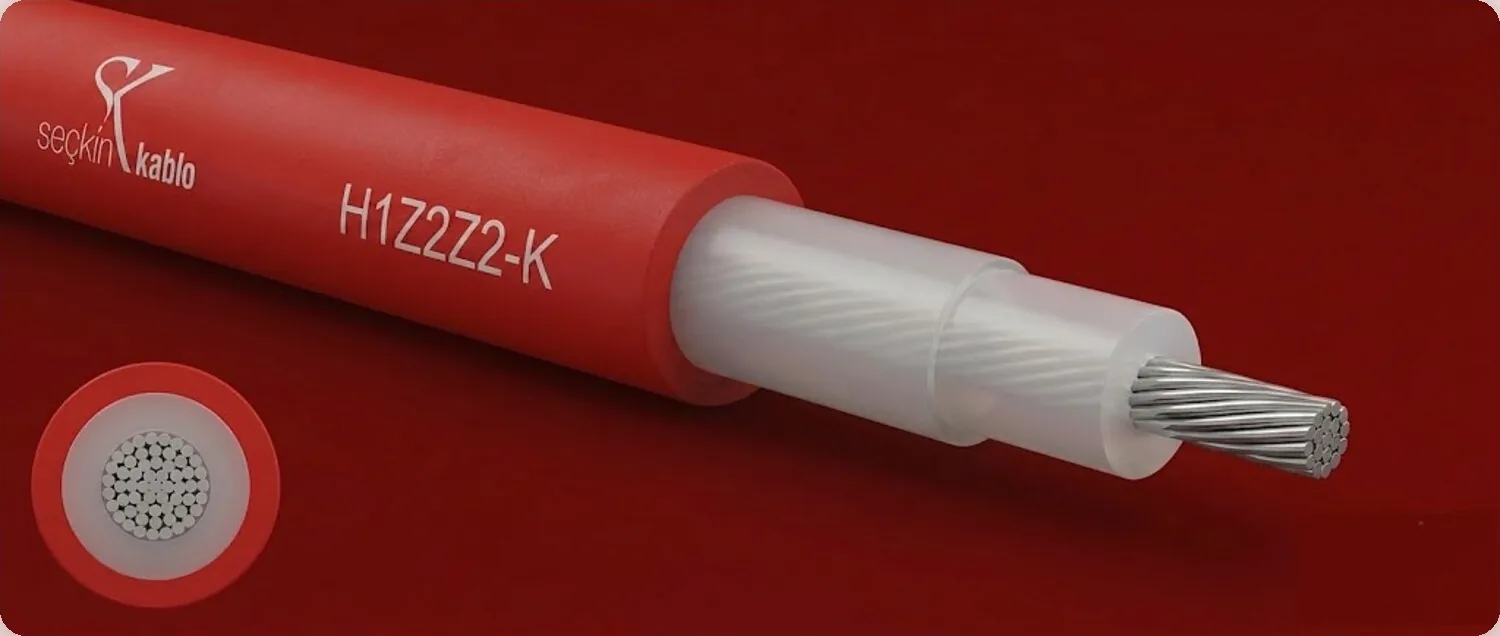
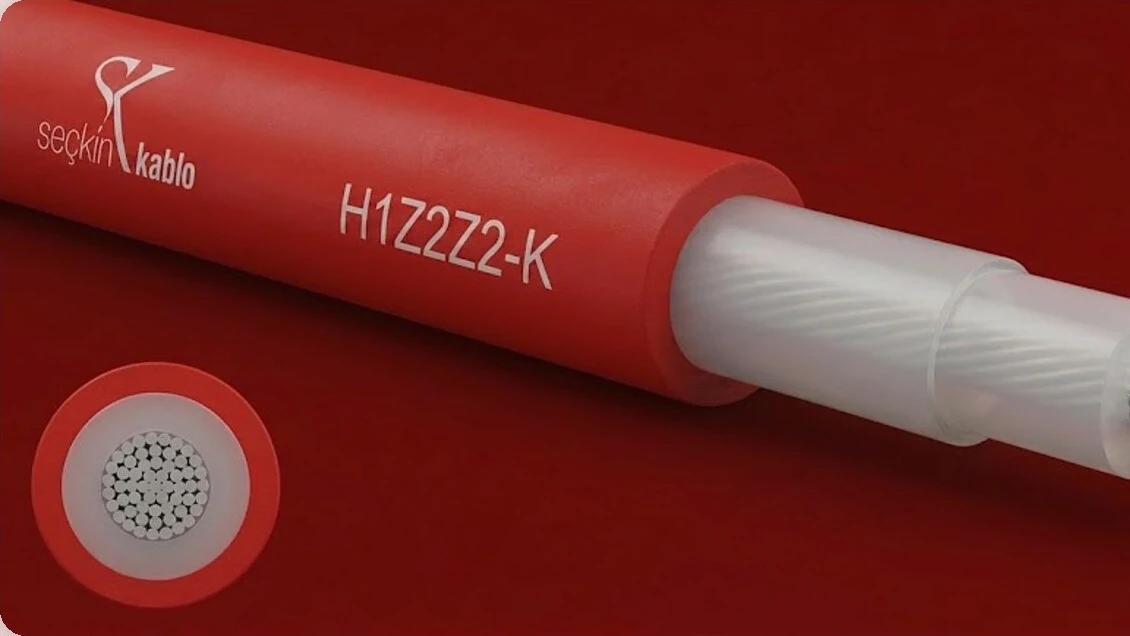
Ürünler kartlarını SVG ikon tutarlılığına döndür + solar fotoğrafı 16:9 crop
- urunler.html: Solar / PUR / Yangına Dayanıklı kartları büyük fotoğraf yerine diğer 7 kart gibi SVG ikon kullanıyor (güneş, robot/kontrol, kalkan+alev)
- css/style.css: kullanılmayan .big-cat .cat-photo varyantı temizlendi
- assets/img/kablolar-katalog/08-solar/01_H1Z2Z2-K.webp: 2.36:1 kaynak 16:9'a kırpıldı (sağdan boş kırmızı alan atıldı, Seçkin Kablo logosu ve kesit dairesi korundu) — kart konteynerinde letterbox olmuyor

diff --git a/urunler.html b/urunler.html
@@ -115,28 +115,28 @@
         </a>
 
         <a href="solar-kablolari.html" class="big-cat reveal">
-          <div class="cat-photo"><img src="assets/img/kablolar-katalog/08-solar/01_H1Z2Z2-K.webp" alt="Solar (H1Z2Z2-K) kablo önizlemesi" width="96" height="136" loading="lazy" decoding="async"></div>
+          <div class="cat-ico"><svg aria-hidden="true" focusable="false" viewBox="0 0 24 24" fill="none" stroke="currentColor" stroke-width="1.8"><circle cx="12" cy="12" r="4"/><path d="M12 2v3M12 19v3M2 12h3M19 12h3M4.9 4.9l2.1 2.1M17 17l2.1 2.1M4.9 19.1L7 17M17 7l2.1-2.1"/></svg></div>
           <div>
-            <h3>Solar Kablolar</h3>
-            <p>Fotovoltaik (PV) sistemler için UV ve ozon dayanımlı, halojensiz DC güç kabloları. Çift yalıtımlı yapı, geniş sıcaklık aralığında güneş enerjisi santrallerinde uzun ömürlü performans.</p>
+            <h3>Solar Kabloları</h3>
+            <p>H1Z2Z2-K 1,5 kV DC fotovoltaik kablo; kalaylı bakır iletken, çapraz bağlı halojensiz XLPO yalıtım ve kılıf. UV, ozon ve hava koşullarına 25 yıl dayanıklı; EN 50618 sertifikalı PV sistem kablosu.</p>
             <span class="cat-link"><span data-i18n="common.review">İncele</span> <svg aria-hidden="true" focusable="false" viewBox="0 0 24 24" fill="none" stroke="currentColor" stroke-width="2.4"><path d="M5 12h14M13 6l6 6-6 6"/></svg></span>
           </div>
         </a>
 
         <a href="pur-kablolari.html" class="big-cat reveal">
-          <div class="cat-photo"><img src="assets/img/kablolar-katalog/06-kumanda/06_YSL11Y.webp" alt="PUR (YSL11Y) kablo önizlemesi" width="96" height="136" loading="lazy" decoding="async"></div>
+          <div class="cat-ico"><svg aria-hidden="true" focusable="false" viewBox="0 0 24 24" fill="none" stroke="currentColor" stroke-width="1.8"><rect x="3" y="10" width="18" height="8" rx="2"/><path d="M7 10V7a3 3 0 016 0v3"/><path d="M11 14h2"/></svg></div>
           <div>
             <h3>PUR Kabloları</h3>
-            <p>Poliüretan kılıflı ağır hizmet kabloları; aşınma, yağ, kimyasal ve mekanik yıpranmaya karşı üstün direnç. Robot kolları, sürükleme zincirleri ve endüstriyel hareketli uygulamalar için.</p>
+            <p>YSL11Y ve 11YSL11Y poliüretan kılıflı esnek kumanda kabloları; aşınma, yağ, hidroliz ve UV dayanımı. Robot kolları, drag chain (sürüklemeli) tesisat ve makine bağlantıları için.</p>
             <span class="cat-link"><span data-i18n="common.review">İncele</span> <svg aria-hidden="true" focusable="false" viewBox="0 0 24 24" fill="none" stroke="currentColor" stroke-width="2.4"><path d="M5 12h14M13 6l6 6-6 6"/></svg></span>
           </div>
         </a>
 
         <a href="yangina-dayanikli-kablolar.html" class="big-cat reveal">
-          <div class="cat-photo"><img src="assets/img/kablolar-katalog/04-yangin/07_JE-HStH_Bd_FE180_PH120.webp" alt="Yangına Dayanıklı (JE-H(St)H Bd FE180 PH120) kablo önizlemesi" width="96" height="136" loading="lazy" decoding="async"></div>
+          <div class="cat-ico"><svg aria-hidden="true" focusable="false" viewBox="0 0 24 24" fill="none" stroke="currentColor" stroke-width="1.8"><path d="M12 2l7 4v6c0 5-3.5 8.5-7 10-3.5-1.5-7-5-7-10V6z"/><path d="M9.5 12.5s1-2 2.5-2 2.5 2 2.5 2-.5 3-2.5 3-2.5-3-2.5-3z" fill="currentColor" opacity=".22"/></svg></div>
           <div>
             <h3>Yangına Dayanıklı Kablolar</h3>
-            <p>FE180/E30-E90 devre bütünlüğü sınıflarında yangına dayanıklı güç ve sinyal kabloları; asansör, yangın pompaları, acil aydınlatma ve tahliye sistemleri için can güvenliği odaklı çözümler.</p>
+            <p>FE180 / PH120 fonksiyon korumalı yangın kabloları; mika–cam elyaf bariyeri ile 180 dk yalıtım, 120 dk devre bütünlüğü. Yangın ihbar, acil aydınlatma, itfaiye asansörü ve tahliye devreleri için.</p>
             <span class="cat-link"><span data-i18n="common.review">İncele</span> <svg aria-hidden="true" focusable="false" viewBox="0 0 24 24" fill="none" stroke="currentColor" stroke-width="2.4"><path d="M5 12h14M13 6l6 6-6 6"/></svg></span>
           </div>
         </a>

diff --git a/css/style.css b/css/style.css
@@ -412,10 +412,6 @@ html.js-reveal .reveal.in{
 .big-cat .cat-ico{margin-bottom:0;flex:none;width:64px;height:64px;}
 .big-cat h3{font-size:1.35rem;margin-bottom:8px;}
 .big-cat p{font-size:.95rem;margin-bottom:16px;}
-/* Fotoğraflı büyük kart varyantı — SVG ikon yerine katalog sayfası önizlemesi */
-.big-cat .cat-photo{margin-bottom:0;flex:none;width:96px;height:136px;border-radius:12px;overflow:hidden;background:#f4f4f6;border:1px solid var(--line);box-shadow:0 6px 18px -8px rgba(15,15,20,.18);}
-.big-cat .cat-photo img{width:100%;height:100%;display:block;object-fit:cover;}
-.big-cat:hover .cat-photo{transform:translateZ(20px);}
 /* =========================================================
    HAKKIMIZDA
    ========================================================= */
